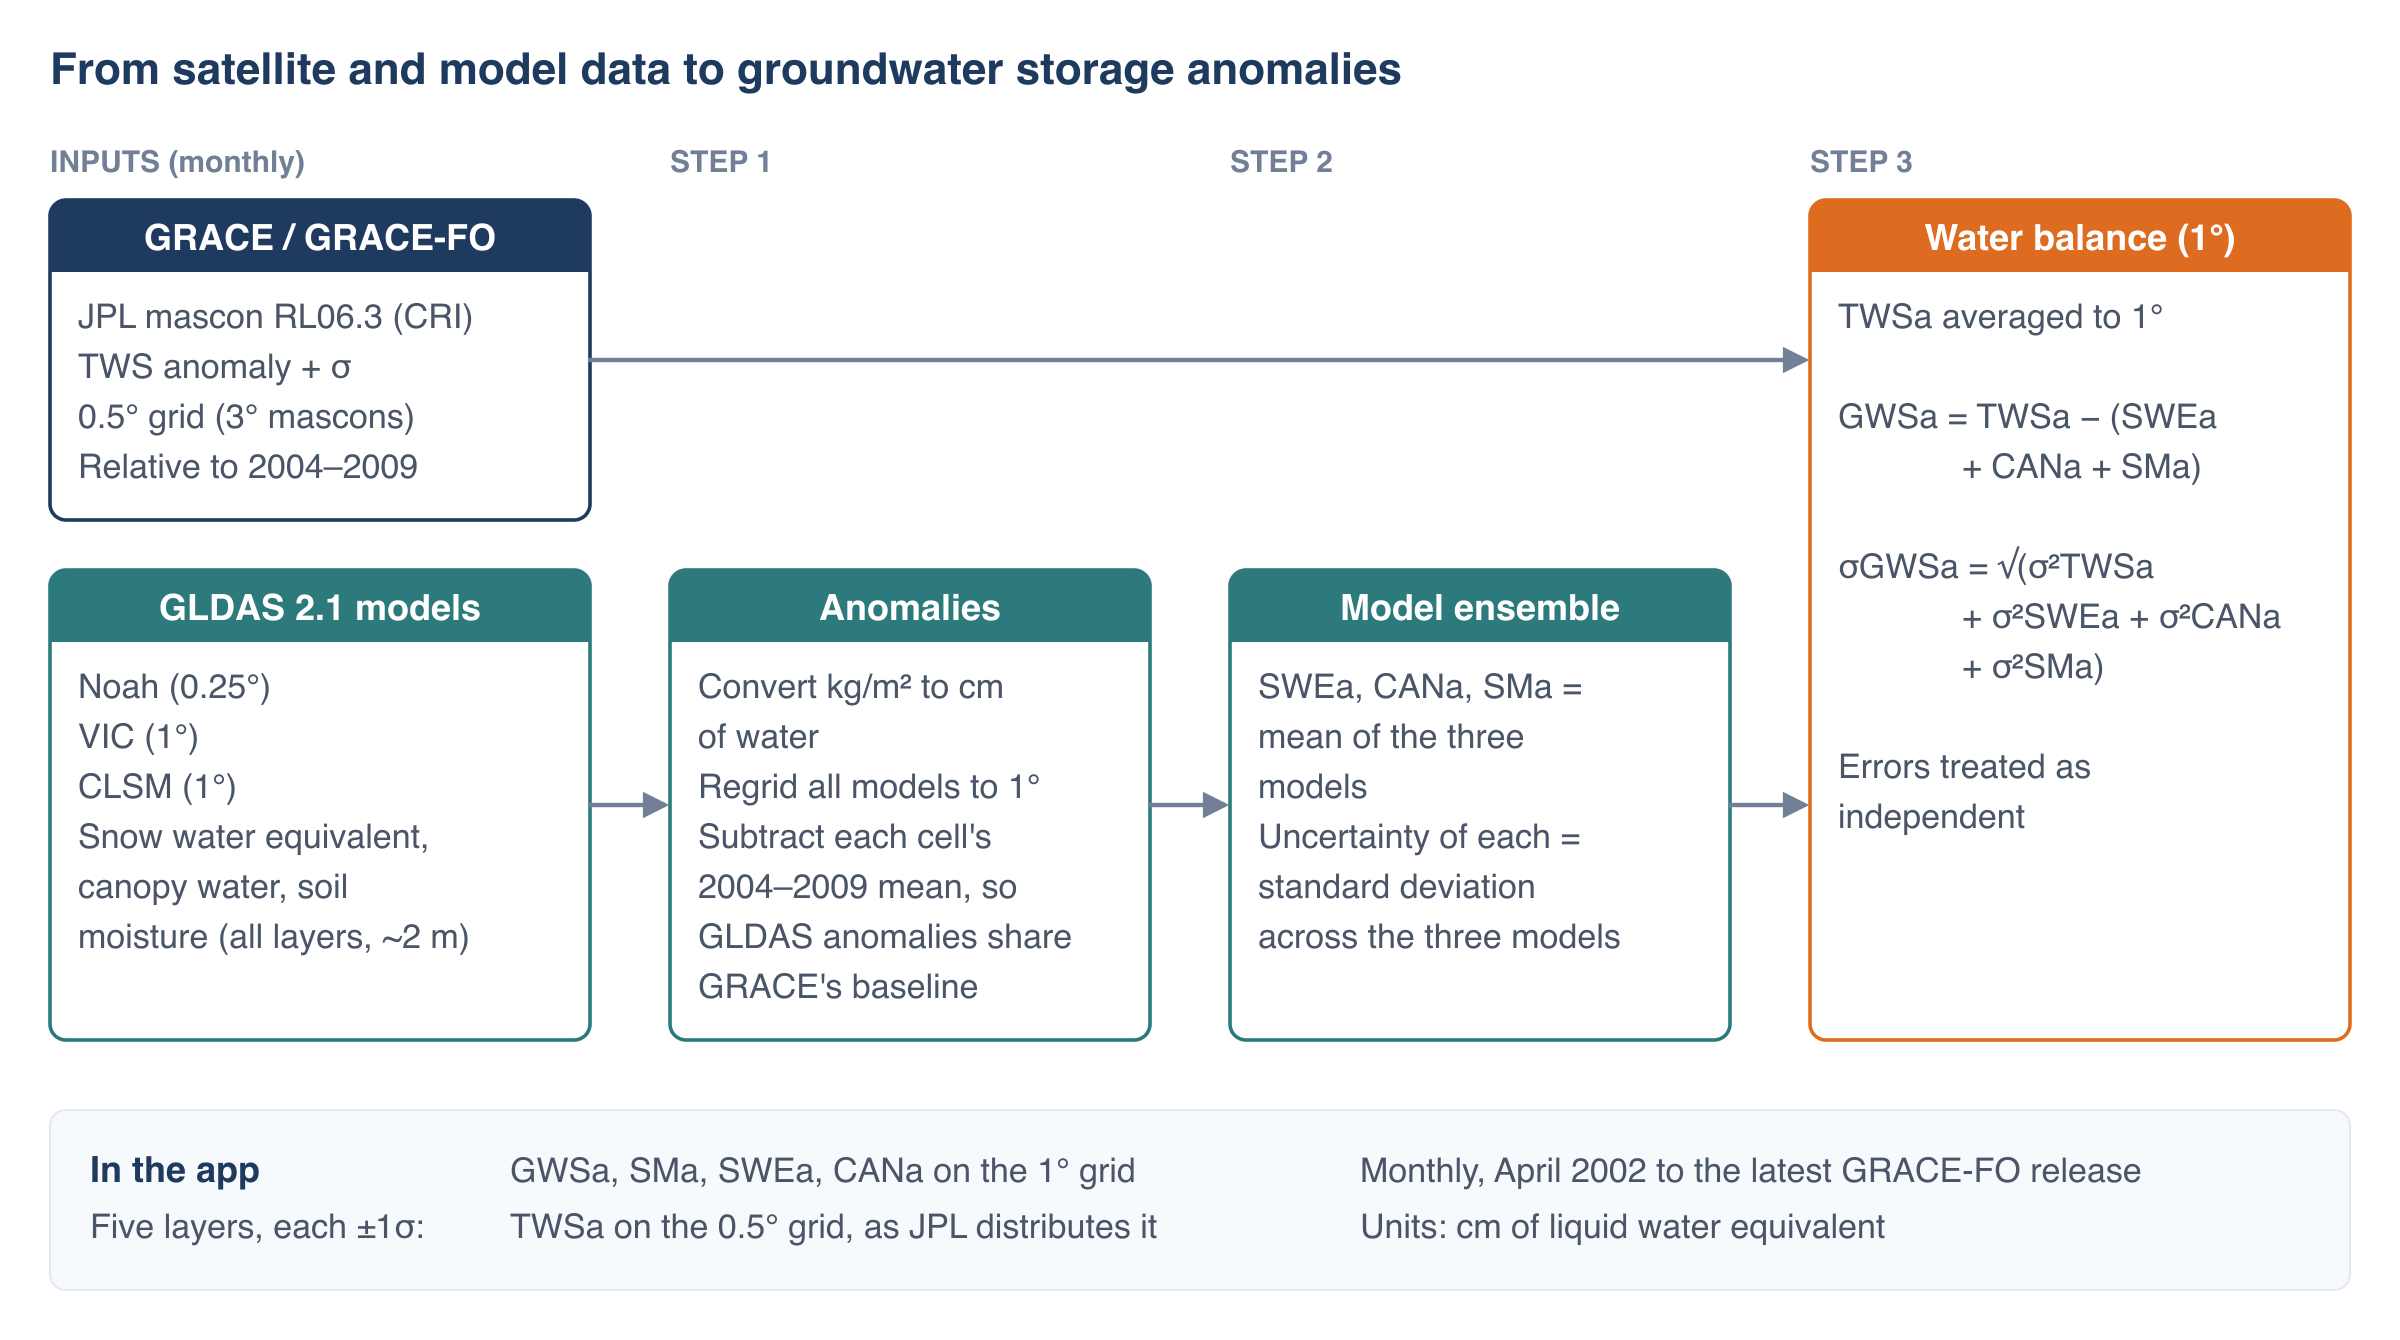
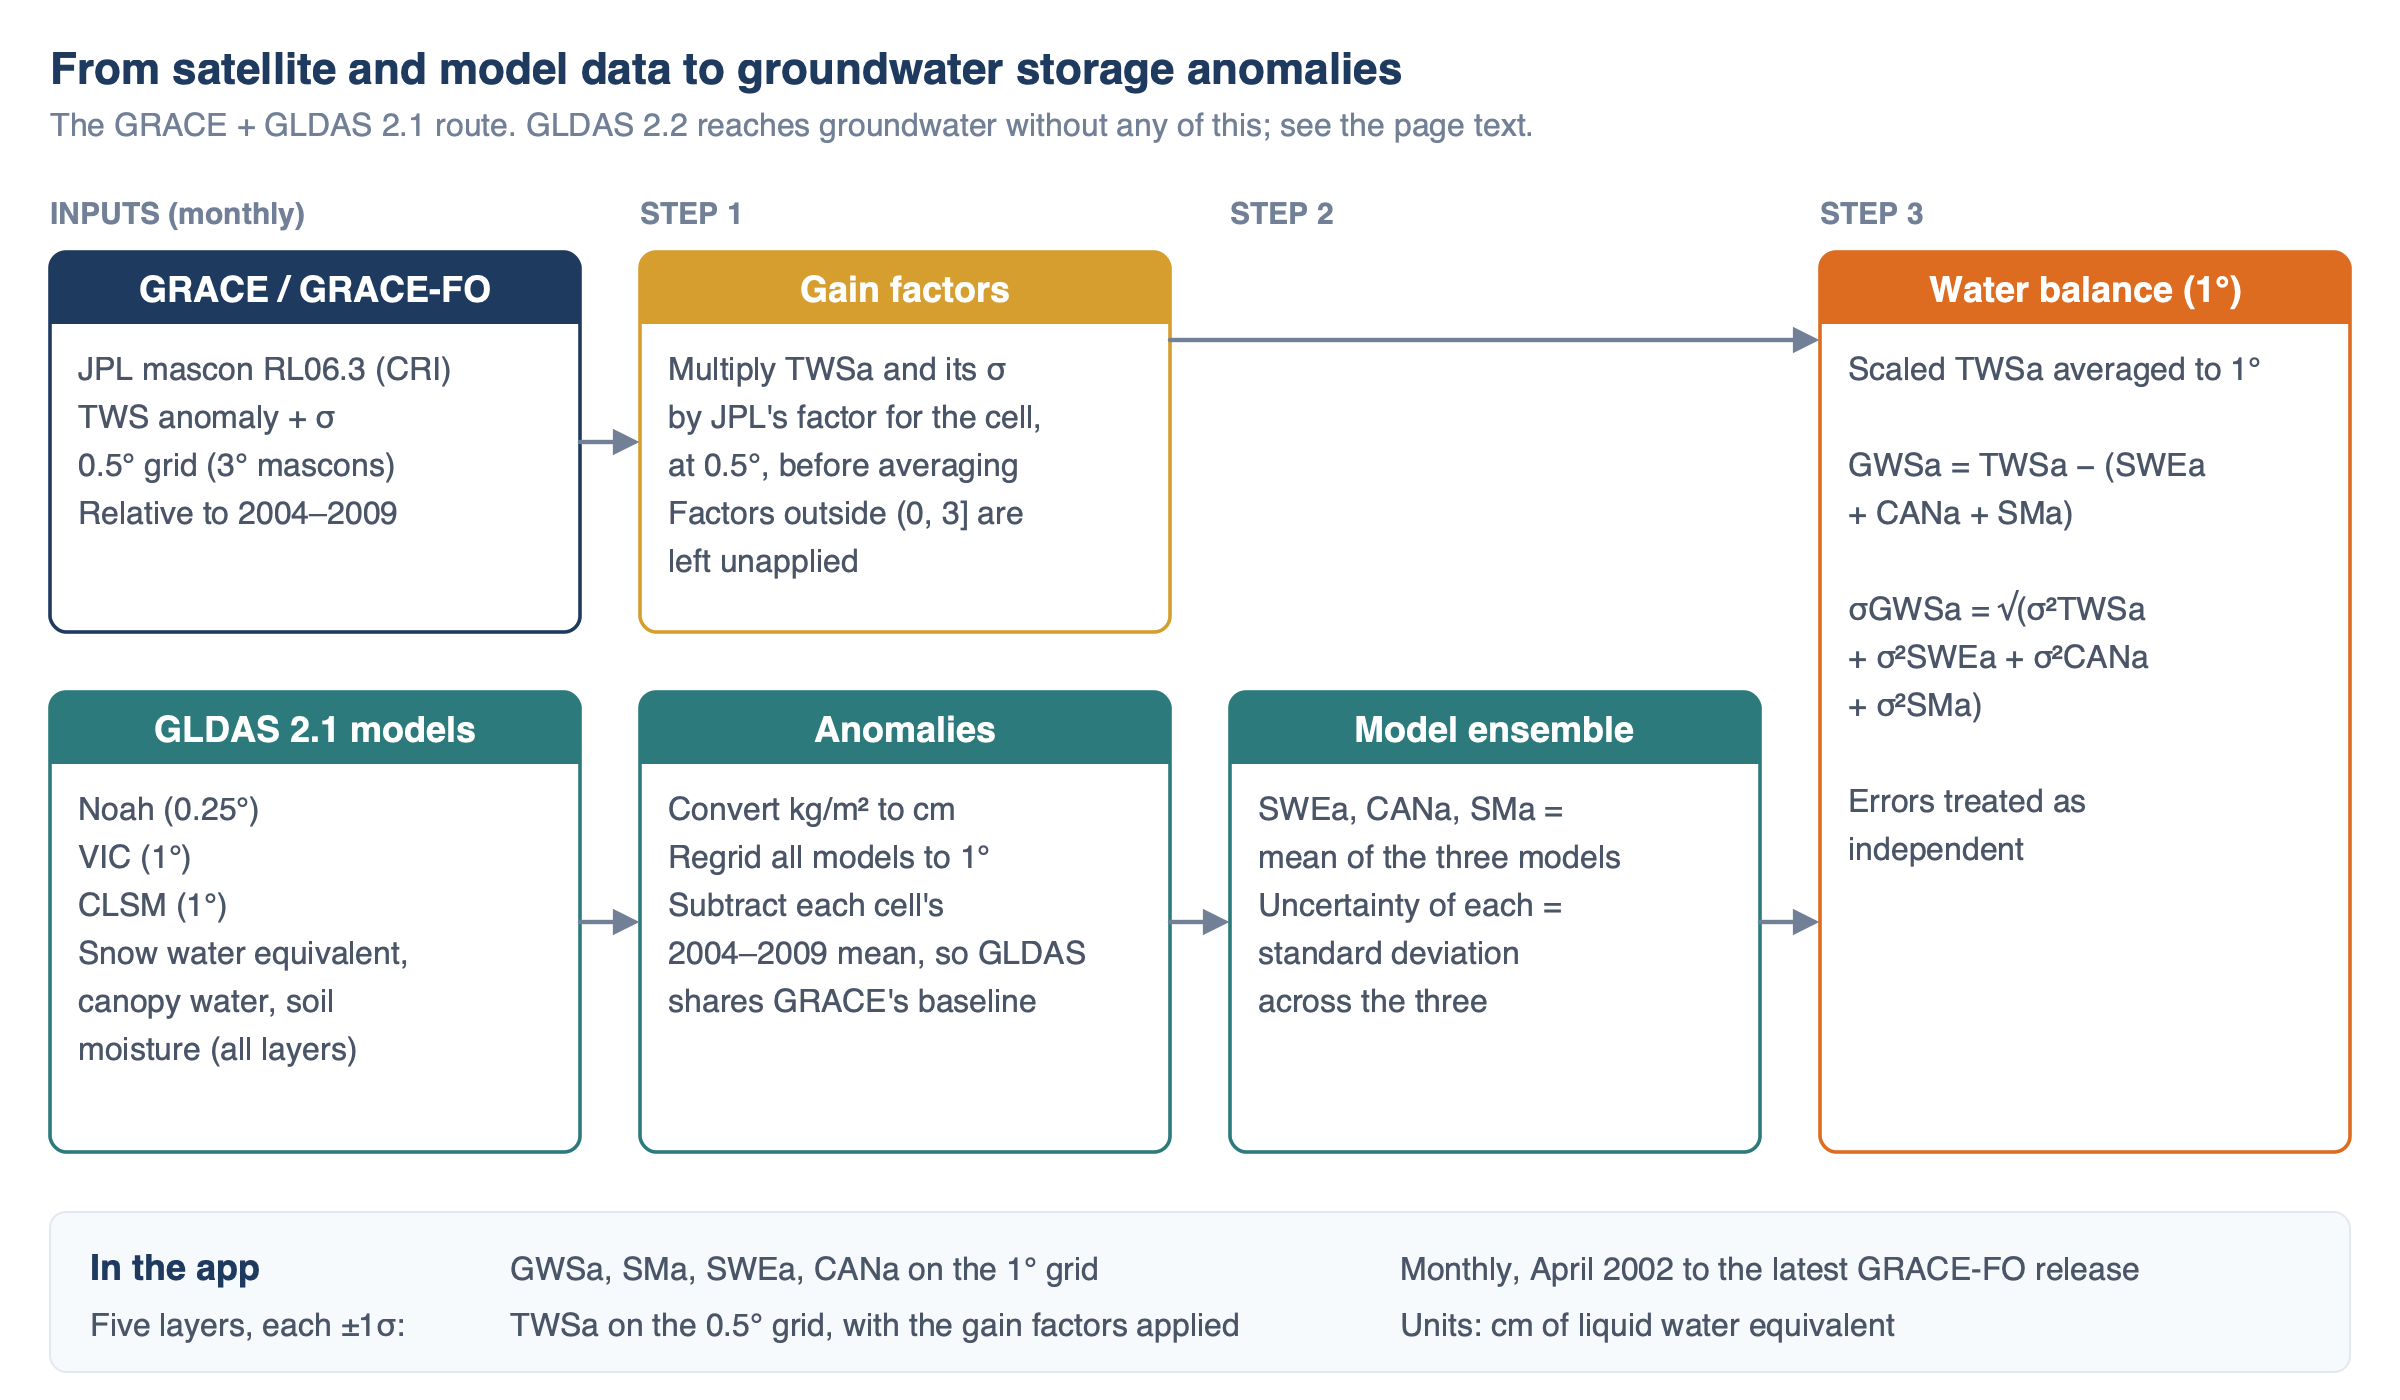
Redraw the processing chain with the gain factors in it
The figure showed the published JPL value going straight into the water
balance, which is what the pipeline used to do and no longer does. It
also presented the 2.1 route as the only route.

Scaling is now its own step, saying what is multiplied and which factors
are left alone; the water balance box starts from scaled TWSa; the
footer says TWSa carries the factors; and the subtitle names this as the
GRACE + GLDAS 2.1 route.

Redrawn from a generator rather than by hand, so tools/ now holds the
source for all three generated figures and the file is no longer named
for GLDAS alone.

Claude-Session: https://claude.ai/code/session_01Wxw5z6EJHSrer8Y72dcUYt

diff --git a/tools/make_figures.py b/tools/make_figures.py
@@ -1,14 +1,15 @@
 #!/usr/bin/env python3
 """
-Draw the two GLDAS figures, in the same visual grammar as the GRACE diagrams.
+Draw the figures that have a source, in the visual grammar of the GRACE set.
 
-The older diagrams in docs/static/images/grace/diagrams were committed as SVG
-with no source; these have one, so a number or a label can be corrected without
-redrawing. Each figure is written as SVG and rendered to PNG at 2x, which is
-what the committed GRACE PNGs are.
+Most diagrams under docs/static/images/grace/diagrams were committed as SVG with
+no source, so correcting a label meant redrawing one by hand. These are
+generated: a number or a wording changes here and both the SVG and the PNG
+follow. Each is written as SVG and rendered to PNG at 2x, which is what the
+committed GRACE PNGs are.
 
 Usage:
-    uv run --with cairosvg python tools/make_gldas_figures.py
+    uv run --with cairosvg python tools/make_figures.py
 """
 
 from pathlib import Path
@@ -195,6 +196,66 @@ def versions():
     svg("gldas-2.1-vs-2.2", "GLDAS 2.1 and 2.2 compared", W, H, "\n".join(b))
 
 
+# ------------------------------------------------------------- processing chain
+def processing_chain():
+    """
+    The GRACE + GLDAS 2.1 chain. Redrawn from the hand-authored original to add
+    the gain factors, which the pipeline had never applied and the figure
+    therefore never showed.
+    """
+    W, H = 1200, 700
+    COL, GAP = 265, 30
+    xs = [25, 320, 615, 910]
+    b = [text(25, 42, "From satellite and model data to groundwater storage anomalies", 22, "bold", "start", NAVY),
+         text(25, 68, "The GRACE + GLDAS 2.1 route. GLDAS 2.2 reaches groundwater without any of this; see the "
+                      "page text.", 16, "normal", "start", GRAY)]
+
+    for i, label in enumerate(["INPUTS (monthly)", "STEP 1", "STEP 2", "STEP 3"]):
+        b.append(text(xs[i], 112, label, 15, "bold", "start", GRAY))
+
+    b.append(card(xs[0], 126, COL, 190, "GRACE / GRACE-FO", [
+        "JPL mascon RL06.3 (CRI)", "TWS anomaly + \u03c3", "0.5\u00b0 grid (3\u00b0 mascons)",
+        "Relative to 2004\u20132009",
+    ], NAVY, 16, 24))
+    b.append(card(xs[1], 126, COL, 190, "Gain factors", [
+        "Multiply TWSa and its \u03c3", "by JPL's factor for the cell,", "at 0.5\u00b0, before averaging",
+        "Factors outside (0, 3] are", "left unapplied",
+    ], GOLD, 16, 24))
+    b.append(card(xs[0], 346, COL, 230, "GLDAS 2.1 models", [
+        "Noah (0.25\u00b0)", "VIC (1\u00b0)", "CLSM (1\u00b0)", "Snow water equivalent,",
+        "canopy water, soil", "moisture (all layers)",
+    ], TEAL, 16, 24))
+    b.append(card(xs[1], 346, COL, 230, "Anomalies", [
+        "Convert kg/m\u00b2 to cm", "Regrid all models to 1\u00b0", "Subtract each cell's",
+        "2004\u20132009 mean, so GLDAS", "shares GRACE's baseline",
+    ], TEAL, 16, 24))
+    b.append(card(xs[2], 346, COL, 230, "Model ensemble", [
+        "SWEa, CANa, SMa =", "mean of the three models", "Uncertainty of each =",
+        "standard deviation", "across the three",
+    ], TEAL, 16, 24))
+    b.append(card(xs[3], 126, COL, 450, "Water balance (1\u00b0)", [
+        "Scaled TWSa averaged to 1\u00b0", "", "GWSa = TWSa \u2212 (SWEa", "        + CANa + SMa)", "",
+        "\u03c3GWSa = \u221a(\u03c3\u00b2TWSa", "        + \u03c3\u00b2SWEa + \u03c3\u00b2CANa", "        + \u03c3\u00b2SMa)", "",
+        "Errors treated as", "independent",
+    ], ORANGE, 16, 24))
+
+    b.append(arrow(xs[0] + COL, 221, xs[1] - 3, 221))
+    b.append(arrow(xs[1] + COL, 170, xs[3] - 3, 170))
+    b.append(arrow(xs[0] + COL, 461, xs[1] - 3, 461))
+    b.append(arrow(xs[1] + COL, 461, xs[2] - 3, 461))
+    b.append(arrow(xs[2] + COL, 461, xs[3] - 3, 461))
+
+    b.append(panel(25, 606, 1150, 80))
+    b.append(text(45, 640, "In the app", 18, "bold", "start", NAVY))
+    b.append(text(45, 668, "Five layers, each \u00b11\u03c3:", 16))
+    b.append(text(255, 640, "GWSa, SMa, SWEa, CANa on the 1\u00b0 grid", 16))
+    b.append(text(255, 668, "TWSa on the 0.5\u00b0 grid, with the gain factors applied", 16))
+    b.append(text(700, 640, "Monthly, April 2002 to the latest GRACE-FO release", 16))
+    b.append(text(700, 668, "Units: cm of liquid water equivalent", 16))
+    svg("grace-processing", "GRACE Regional Analyst processing chain", W, H, "\n".join(b))
+
+
 if __name__ == "__main__":
     water_cycle()
     versions()
+    processing_chain()

diff --git a/docs/grace/gldas/deriving-groundwater.en.md b/docs/grace/gldas/deriving-groundwater.en.md
@@ -38,11 +38,12 @@ the mean of the three models, and the spread between the models (their standard 
 
 ### Processing chain
 
-![GRACE Regional Analyst processing chain](../../static/images/grace/grace-processing.png)
+![The GRACE + GLDAS 2.1 processing chain, from the published inputs to the five layers the app serves](../../static/images/grace/grace-processing.png)
 
-GRACE TWSa is averaged from 0.5° to 1° and combined with the model ensemble to give GWSa on a 1° grid. The app serves five layers: GWSa, SMa, SWEa
-and CANa at 1°, and TWSa at 0.5° as JPL distributes it. Using 1° for the derived layers follows the usual practice of combining GRACE with model data at
-the coarser of the two grids; reporting GWSa at 0.5° would give an impression of detail that neither dataset has.
+GRACE TWSa is scaled by the gain factors at 0.5°, averaged to 1°, and combined with the model ensemble to give GWSa on a 1° grid. The app serves
+five layers: GWSa, SMa, SWEa and CANa at 1°, and TWSa at 0.5°, on the grid JPL distributes it on. Using 1° for the derived layers follows the
+usual practice of combining GRACE with model data at the coarser of the two grids; reporting GWSa at 0.5° would give an impression of detail
+that neither dataset has.
 
 No gaps are filled. Each monthly value in the app is the published JPL value, scaled as described below, combined with the GLDAS ensemble for
 that month. The 35 months GRACE is missing are missing here too, and the app's gap filling acts on them in the chart alone (see
